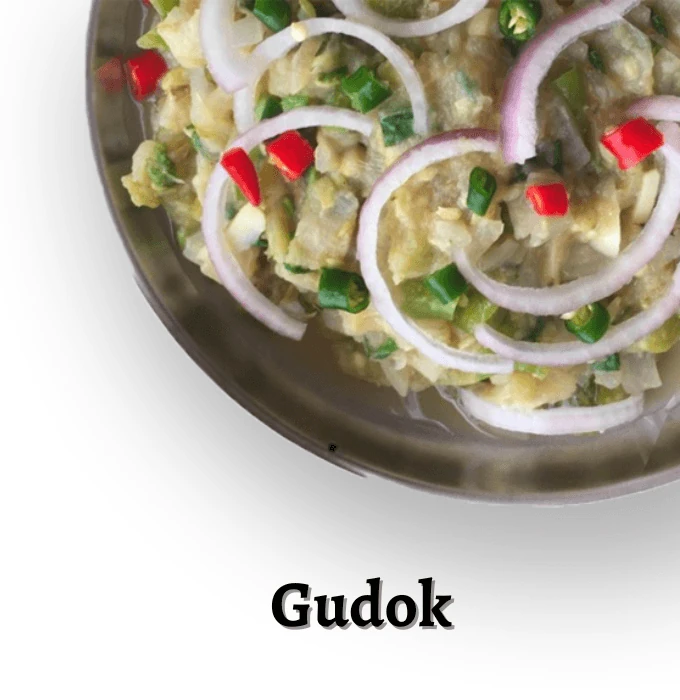
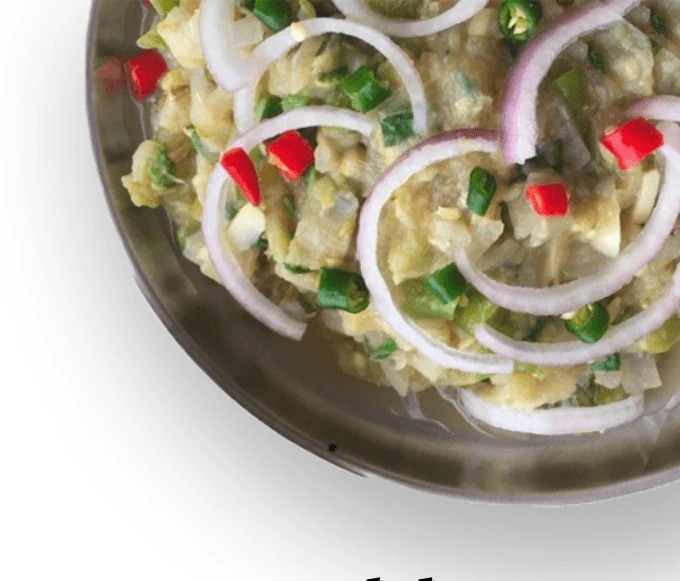
minor fixes

diff --git a/src/app/features/galleries/video-galleries/video-galleries.html b/src/app/features/galleries/video-galleries/video-galleries.html
@@ -64,7 +64,7 @@
               <!-- Video Preview Wrapper -->
               <div class="relative w-full aspect-video bg-black cursor-pointer overflow-hidden">
                 @if(video.videoId) {
-                  <img [src]="'https://img.youtube.com/vi/' + video.videoId + '/hqdefault.webp'" class="w-full h-full object-cover opacity-90 group-hover:opacity-100 group-hover:scale-[1.03] transition-transform duration-700" alt="{{ video.name }}" />
+                  <img [src]="'https://img.youtube.com/vi/' + video.videoId + '/hqdefault.jpg'" class="w-full h-full object-cover opacity-90 group-hover:opacity-100 group-hover:scale-[1.03] transition-transform duration-700" alt="{{ video.name }}" />
                   <div class="absolute inset-0 bg-gradient-to-t from-black/60 via-black/10 to-transparent transition-opacity duration-500 pointer-events-none group-hover:opacity-40"></div>
                   <div class="absolute inset-0 flex items-center justify-center pointer-events-none">
                     <div class="w-14 h-14 md:w-16 md:h-16 bg-white/20 backdrop-blur-md group-hover:bg-[#E62117] rounded-full flex items-center justify-center shadow-lg transition-all duration-300 group-hover:scale-[1.03] border border-white/40 group-hover:border-transparent">
